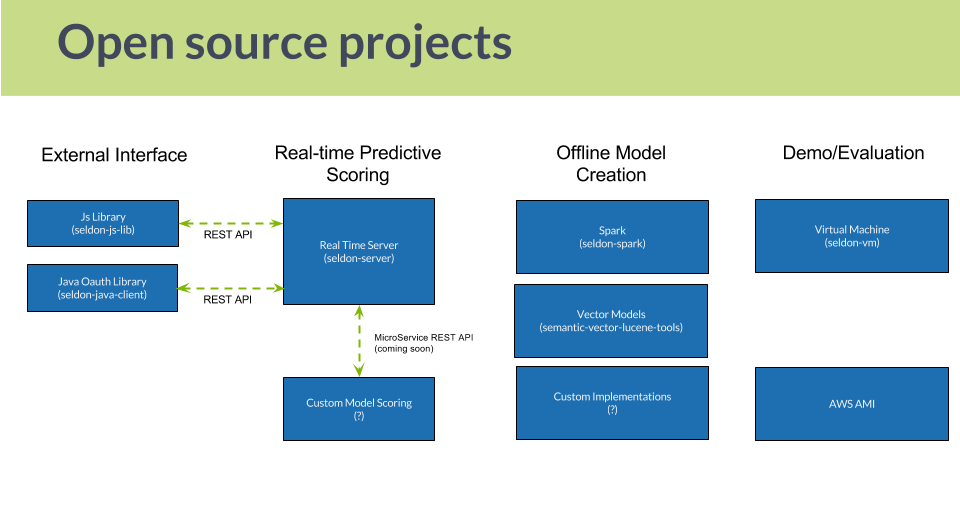
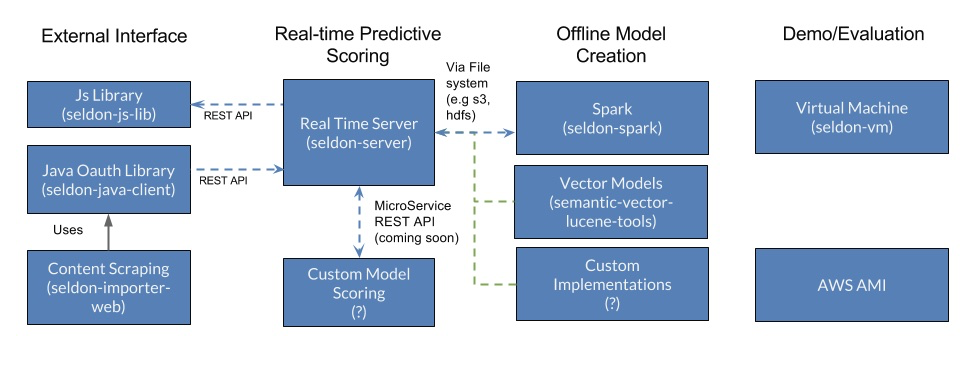
sorted pic and added more concepts

diff --git a/concepts.md b/concepts.md
@@ -7,6 +7,20 @@ title: Concepts
 
 On each Seldon deployment, it is possible to provide recommendations for several totally different data sets (for example, two websites). These data sets are divided by using different clients. Each call to the API has client as one of the attributes. The instructions we've provided so far only allow one client to be set up, but watch these docs for updates on how to extend this.
 
+## User
+
+A user of the Seldon Server is any entity that interacts with items and requires recommendations. For example, a person on a news website that is viewing a story and need recommendations on the next story to read.
+
+## Item
+
+Items are the things that are to be recommended from. For example, a web link that shows a news story.
+
+## Action
+
+Actions are any time when a user interacts with an item (viewing it, buying it, adding it to a cart).
+
+*User, Item and Action can be enriched with arbitrary attributes depending on the use case. For example, a newspaper article might have a subtitle and a category.  When the Seldon Server makes its recommendations for a user, it takes the history of items that he/she has interacted with and their attributes into account.*
+
 ## Algorithm
  
 Algorithms recommend content/items according to the following specification.
